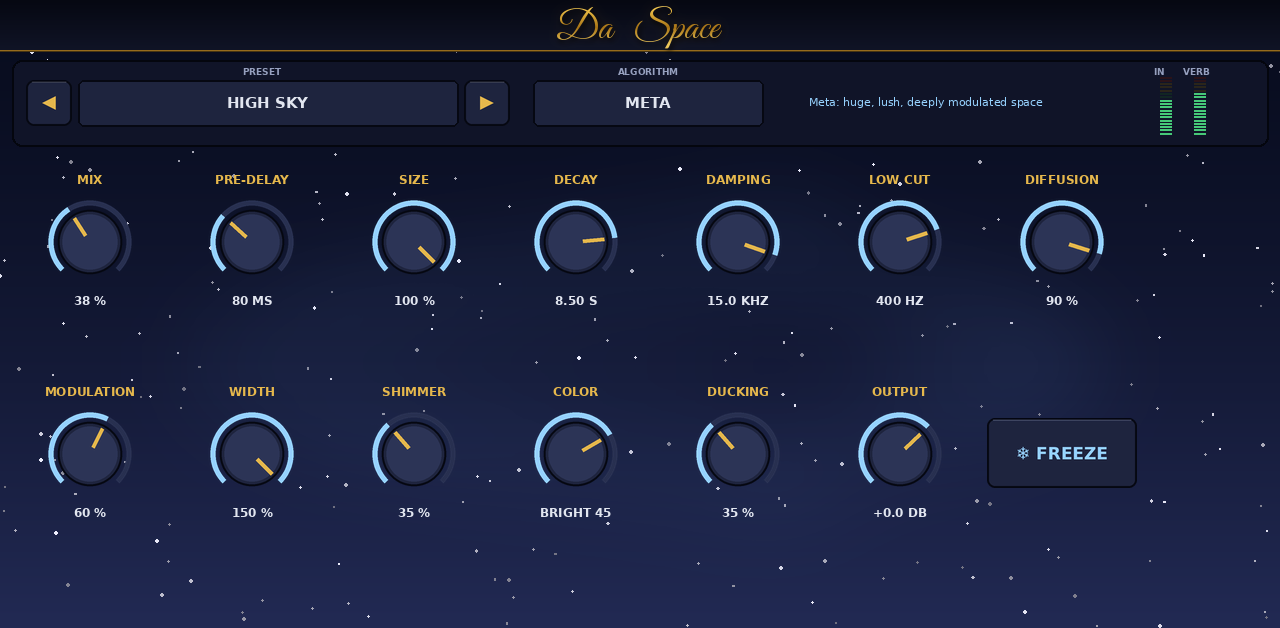
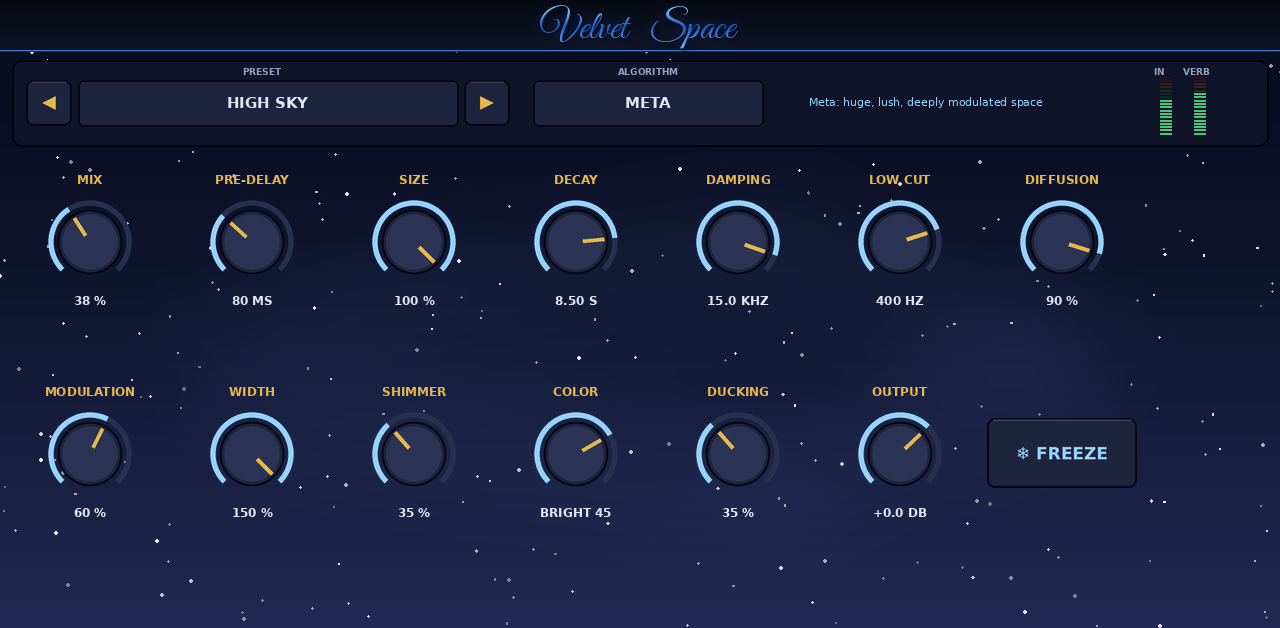
Da Space 1.0.1: skin title 'Velvet Space' in blue script
Claude-Session: https://claude.ai/code/session_01XRqyjua6wzinB9NqNDDbhg

Changed region(s): [[0.0, 0.0, 1.0, 0.0908]]

diff --git a/DaSpace-MPC/tools/make_skin.py b/DaSpace-MPC/tools/make_skin.py
@@ -17,8 +17,8 @@ SKIN_DIR = os.path.join(ROOT, "mpc", "skin", "RadioReady Audio - VST - Da Space"
 OUT = os.path.join(SKIN_DIR, "Plugin Skins")
 W, H = 1280, 628
 FRAMES, NUMFRAMES, SS = 128, 127, 3
-VERSION = "1.0.0.0"
-TITLE = "Da Space"
+VERSION = "1.0.1.0"
+TITLE = "Velvet Space"
 TITLE_H = 50
 SCRIPT_FONTS = [os.path.join(ROOT, "tools", "fonts", n) for n in ("GreatVibes-Regular.woff", "GreatVibes-Regular.ttf")]
 FONT_DIRS = ["/usr/share/fonts/truetype/dejavu", "/usr/share/fonts/dejavu", "/Library/Fonts", "C:/Windows/Fonts"]
@@ -51,23 +51,24 @@ KX0, KDX = 44, 162
 KY1, KY2 = 196, 408
 NSEG = 18
 
-GOLD_STOPS = [(255, 238, 160), (236, 190, 70), (168, 116, 22), (240, 204, 96), (196, 146, 40)]
+# title letters: polished blue (light top, deep band, bright bottom)
+TITLE_STOPS = [(200, 235, 255), (110, 190, 255), (30, 90, 200), (90, 170, 255), (60, 130, 235)]
 def script_font(size):
     for p in SCRIPT_FONTS:
         if os.path.exists(p): return ImageFont.truetype(p, size), True
     return font(int(size * 0.62), "DejaVuSerif-Bold.ttf"), False
-def gold_text(im, cx, cy, text, size):
+def title_text(im, cx, cy, text, size):
     f, script = script_font(size)
     b = ImageDraw.Draw(im).textbbox((0, 0), text, font=f); w, h = b[2] - b[0], b[3] - b[1]
     pad = 14; mask = Image.new("L", (w + 2 * pad, h + 2 * pad), 0)
     ImageDraw.Draw(mask).text((pad - b[0], pad - b[1]), text, font=f, fill=255)
     grad = Image.new("RGB", mask.size); gd = ImageDraw.Draw(grad)
     for y in range(mask.size[1]):
-        k = y / max(1, mask.size[1] - 1) * (len(GOLD_STOPS) - 1); i = min(len(GOLD_STOPS) - 2, int(k)); u = k - i
-        gd.line([0, y, mask.size[0], y], fill=tuple(int(GOLD_STOPS[i][j] + (GOLD_STOPS[i + 1][j] - GOLD_STOPS[i][j]) * u) for j in range(3)))
+        k = y / max(1, mask.size[1] - 1) * (len(TITLE_STOPS) - 1); i = min(len(TITLE_STOPS) - 2, int(k)); u = k - i
+        gd.line([0, y, mask.size[0], y], fill=tuple(int(TITLE_STOPS[i][j] + (TITLE_STOPS[i + 1][j] - TITLE_STOPS[i][j]) * u) for j in range(3)))
     x0, y0 = int(cx - mask.size[0] / 2), int(cy - mask.size[1] / 2)
     im.paste(Image.new("RGB", mask.size, (0, 0, 0)), (x0 + 2, y0 + 3), mask.filter(ImageFilter.GaussianBlur(2.5)))
-    im.paste(Image.new("RGB", mask.size, (120, 84, 16)), (x0, y0), mask.filter(ImageFilter.GaussianBlur(6)).point(lambda v: v // 3))
+    im.paste(Image.new("RGB", mask.size, (30, 80, 170)), (x0, y0), mask.filter(ImageFilter.GaussianBlur(6)).point(lambda v: v // 2))
     im.paste(grad, (x0, y0), mask)
 
 def knob_strip(size):
@@ -140,8 +141,8 @@ def background():
     im.paste(Image.new("RGB", (W, H), (90, 130, 200)), (0, 0), glow.filter(ImageFilter.GaussianBlur(40)))
     d = ImageDraw.Draw(im)
     for y in range(TITLE_H): d.line([0, y, W, y], fill=mix((6, 8, 18), (16, 20, 38), y / TITLE_H))
-    d.line([0, TITLE_H, W, TITLE_H], fill=GOLD_DARK); d.line([0, TITLE_H + 1, W, TITLE_H + 1], fill=(70, 52, 18))
-    gold_text(im, W / 2, TITLE_H / 2 + 2, "   ".join(TITLE.split(" ")), 40)
+    d.line([0, TITLE_H, W, TITLE_H], fill=(60, 120, 210)); d.line([0, TITLE_H + 1, W, TITLE_H + 1], fill=(20, 40, 90))
+    title_text(im, W / 2, TITLE_H / 2 + 2, "   ".join(TITLE.split(" ")), 40)
     d = ImageDraw.Draw(im)
     d.rounded_rectangle([12, 60, W - 12, 146], radius=10, fill=PANEL, outline=LINE, width=2)
     text_c(d, 262, 72, "PRESET", font(9), PRINT_DIM); text_c(d, 648, 72, "ALGORITHM", font(9), PRINT_DIM)

diff --git a/DaSpace-MPC/src/daspace.cpp b/DaSpace-MPC/src/daspace.cpp
@@ -258,7 +258,7 @@ intptr_t dispatcher (AEffect* e, int32_t op, int32_t idx, intptr_t val, void* pt
         case effGetEffectName:
         case effGetProductString: copyStr (ptr, "Da Space", 32); return 1;
         case effGetVendorString:  copyStr (ptr, "RadioReady Audio", 32); return 1;
-        case effGetVendorVersion: return 1000;
+        case effGetVendorVersion: return 1001;
         case effGetPlugCategory:  return kPlugCategEffect;
         case effGetVstVersion:    return 2400;
         case effGetTailSize:      return (intptr_t) (p->sr * 20);
@@ -292,6 +292,6 @@ SPACE_EXPORT AEffect* VSTPluginMain (audioMasterCallback master)
     fx.ioRatio = 1.f;
     fx.object = p;
     fx.uniqueID = ('D' << 24) | ('S' << 16) | ('P' << 8) | 'C';   // 'DSPC' = 0x44535043
-    fx.version = 1000;
+    fx.version = 1001;
     return &fx;
 }

diff --git a/DaSpace-MPC/mpc/INSTALL.md b/DaSpace-MPC/mpc/INSTALL.md
@@ -1,16 +1,16 @@
-# Da Space 1.0.0
+# Da Space 1.0.1
 
 A spatial and reverb plugin for MPC with seven algorithms and 34 presets, including **High Sky**. It's a native MPC OS
-VST2 insert effect. In the plugin browser it's **Da Space** by **RadioReady Audio**, and the screen's gold title reads
-**Da Space**.
+VST2 insert effect. In the plugin browser it's **Da Space** by **RadioReady Audio**, and the screen's title reads
+**Velvet Space** in blue script.
 
 ## Requirements
 - A first-generation MPC OS standalone device (32-bit ARM: MPC X, Live / Live II, One, Key 61, Force).
 - **Root shell access** (SSH). Installing plugins this way is unofficial, so back up first and use it at your own risk.
 
 ## Install with Terminus
-1. Upload `DaSpace-1.0.0-mpc-armv7.zip` to `/tmp`.
-2. Run `cd /tmp && unzip -o DaSpace-1.0.0-mpc-armv7.zip && sh DaSpace-1.0.0/install.sh`.
+1. Upload `DaSpace-1.0.1-mpc-armv7.zip` to `/tmp`.
+2. Run `cd /tmp && unzip -o DaSpace-1.0.1-mpc-armv7.zip && sh DaSpace-1.0.1/install.sh`.
 3. Answer `y`. MPC restarts; add **Da Space** as an insert effect.
 
 On a track, keep Mix around 15–40%. On a send or return bus, set Mix to 100%.
@@ -73,4 +73,4 @@ All seven are level-matched, so switching modes doesn't jump in volume.
 confirm the exact effect or settings used on any particular record, so adjust by ear.
 
 ## Uninstall
-`sh /tmp/DaSpace-1.0.0/uninstall.sh` (unzip the package to `/tmp` again first).
+`sh /tmp/DaSpace-1.0.1/uninstall.sh` (unzip the package to `/tmp` again first).
